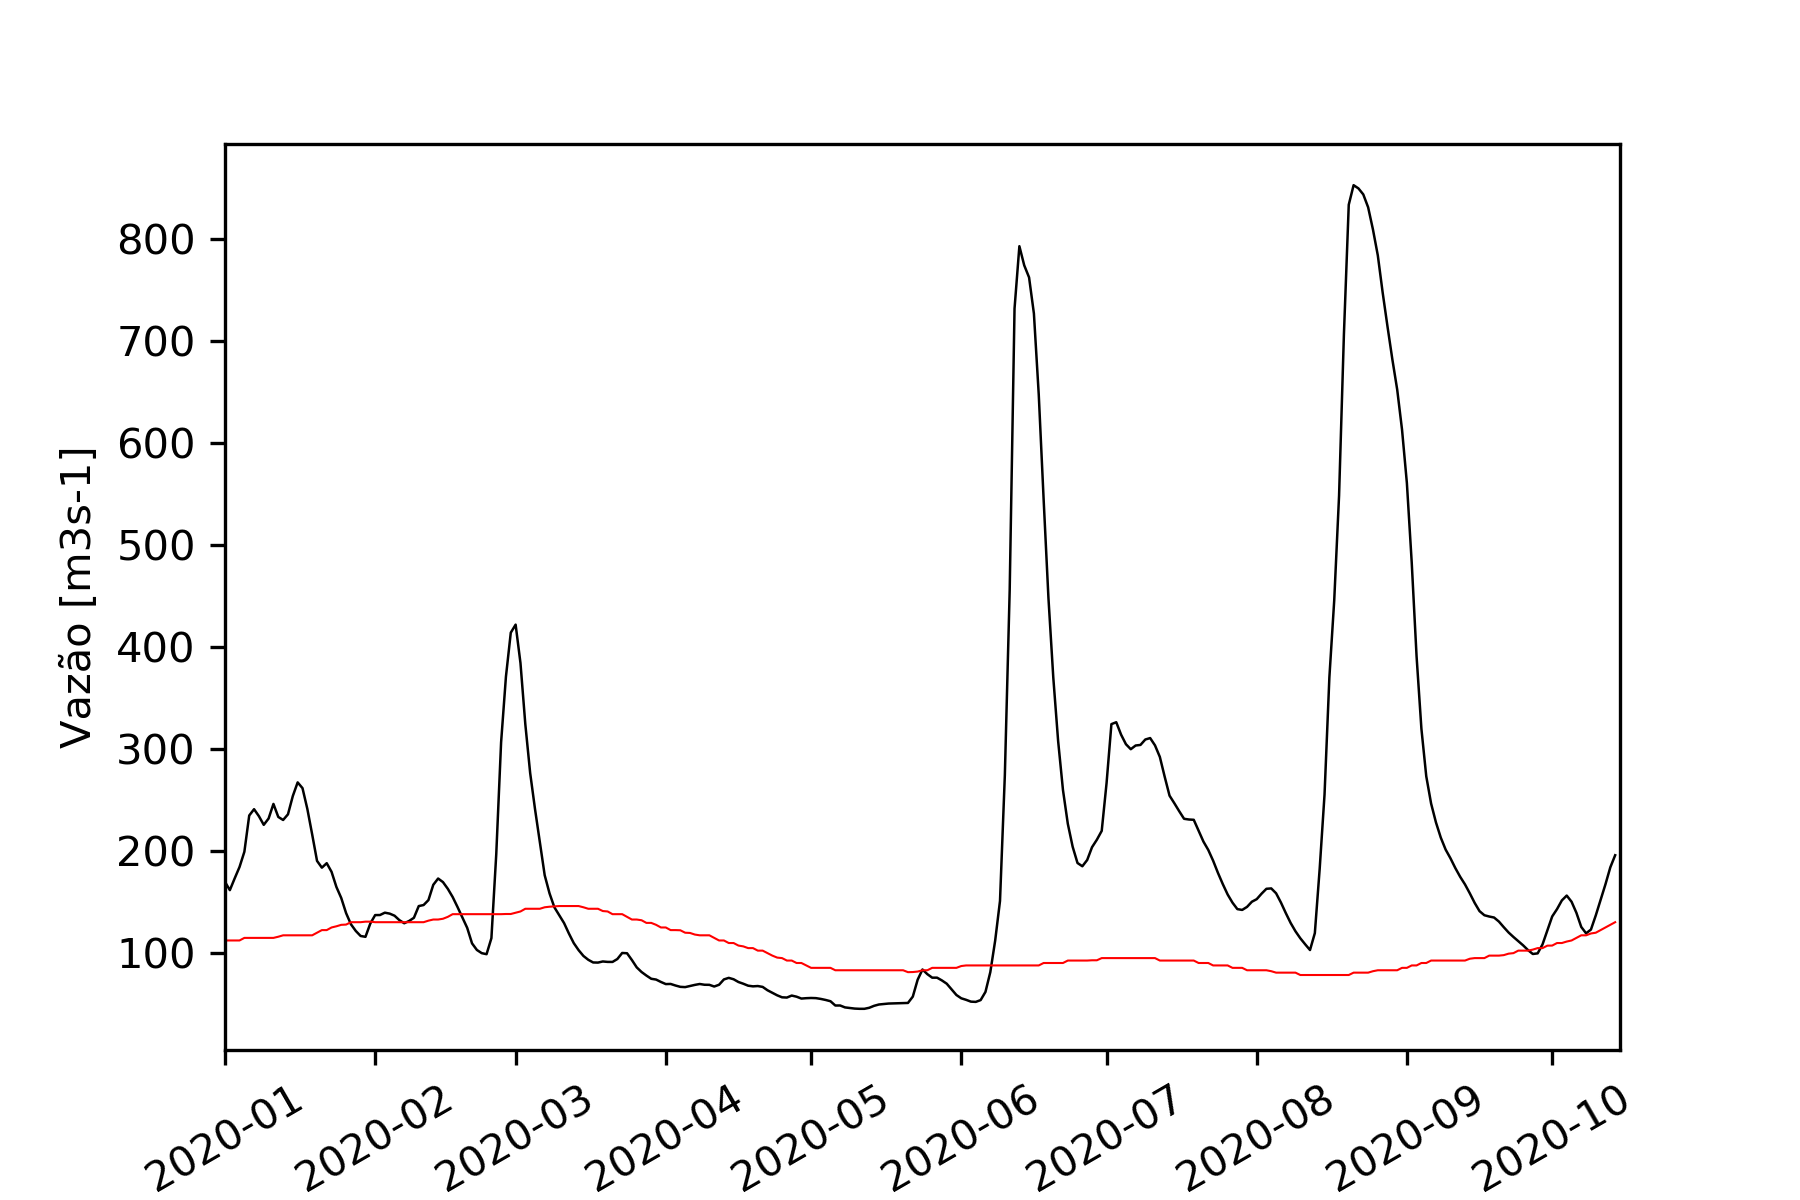
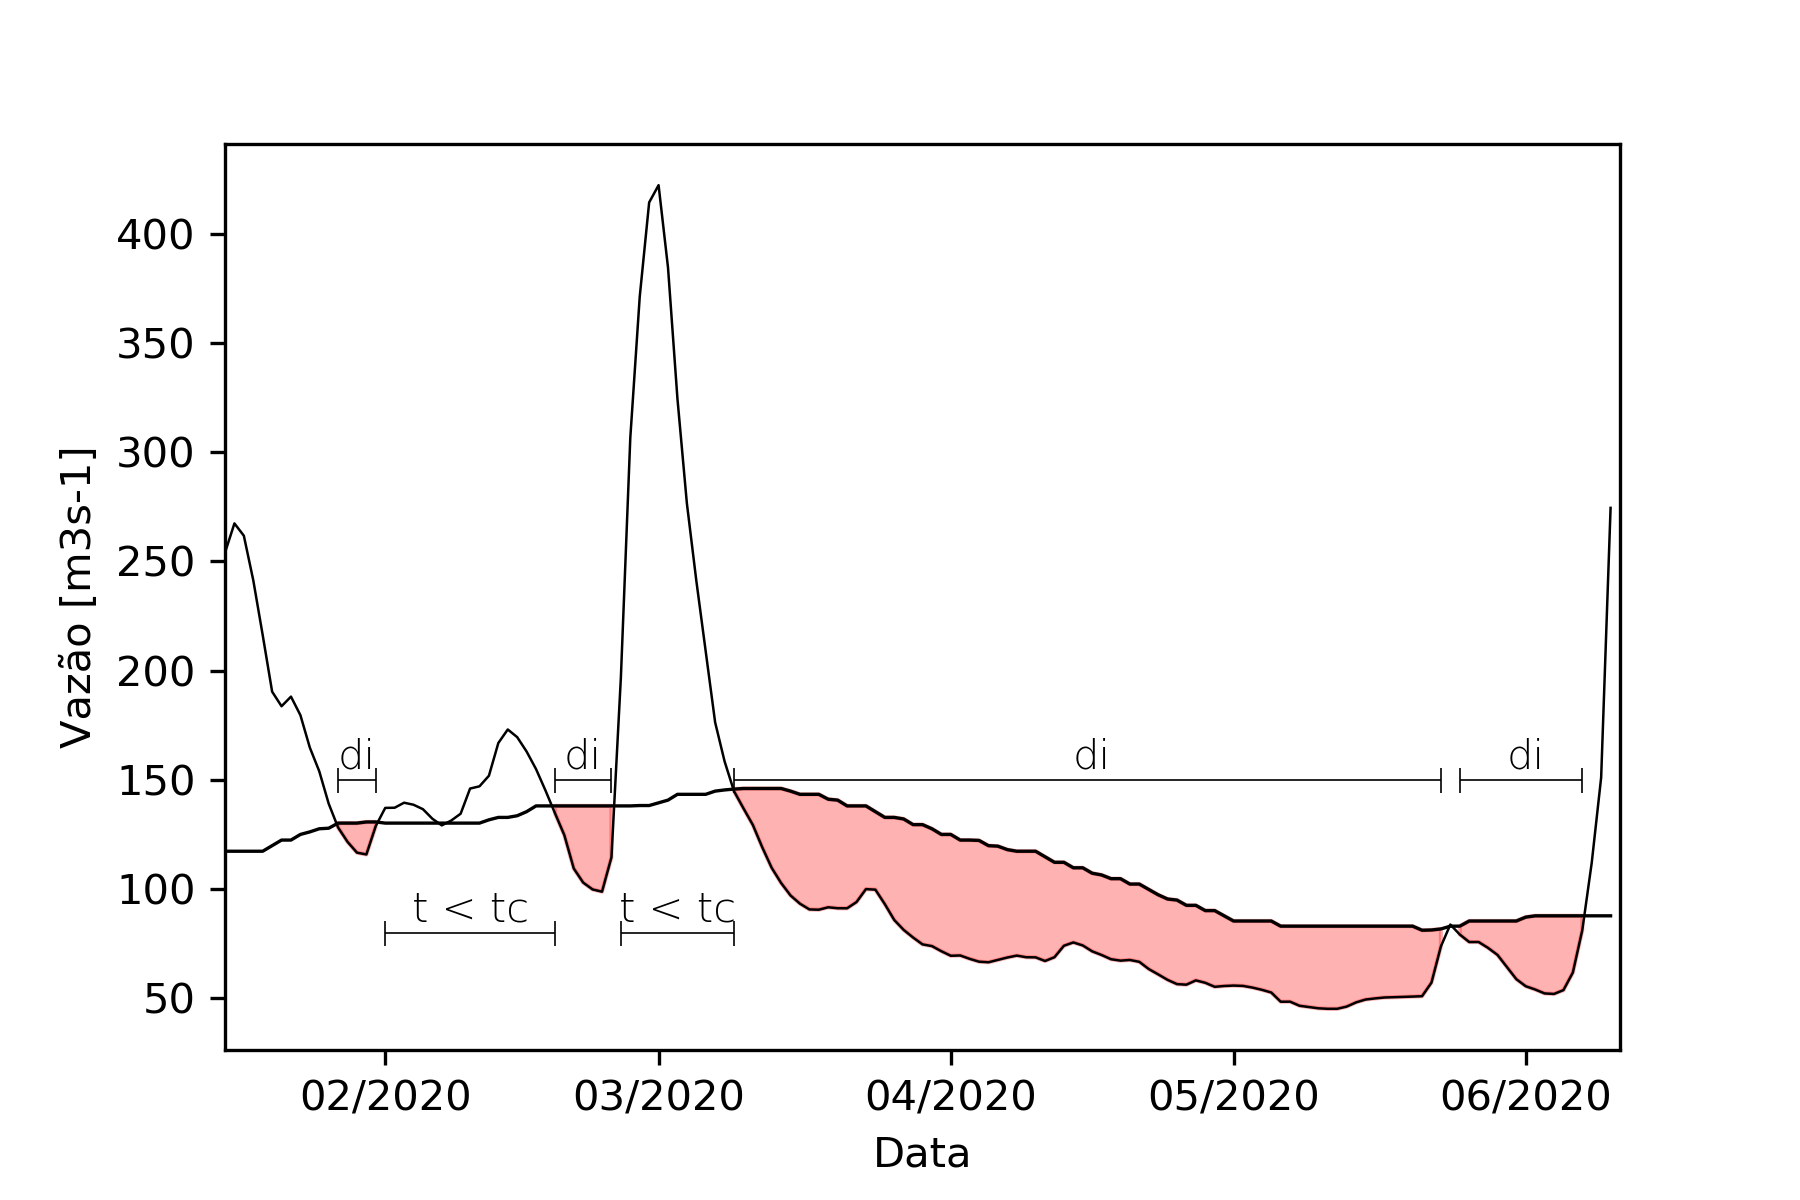
plot evento 2020

diff --git a/low-flow-index/programas/teste_plot.py b/low-flow-index/programas/teste_plot.py
@@ -8,8 +8,8 @@ import seaborn as sns
 import datetime as dt
 
 #DEFINICAO PERIODO ANALISE
-data_inicial = dt.datetime(2020, 1, 1,  0,  0) #YYYY, M, D, H, Min
-data_final = dt.datetime(2020, 10, 14,  23,  59)
+data_inicial = dt.datetime(2020, 1, 15,  0,  0) #YYYY, M, D, H, Min
+data_final = dt.datetime(2020, 6, 10,  23,  59)
 
 dir_plot = "/home/bruno/github/analise-seca/low-flow-index/dados-saida"
 os.chdir(dir_plot)
@@ -23,19 +23,43 @@ data_fim = data_final
 serie_observada = pd.read_csv(nome_bacia+'_serie.csv', index_col=0)
 serie_observada.index = pd.to_datetime(serie_observada.index)
 serie_observada = serie_observada.loc[str(data_ini) : str(data_fim)]
-serie_observada
+obs = serie_observada['q_m3s']
+q95 = serie_observada['q95']
 
 plt.figure()
 plt.plot(serie_observada['q_m3s'], label = "Observado", linewidth = 0.6, color = 'black')
-plt.plot(serie_observada['q95'], label = "Q95", linewidth = 0.5, color = 'red')
+plt.plot(serie_observada['q95'], label = "Q95", linewidth = 0.8, color = 'black')
+plt.hlines(y = 150, xmin = dt.datetime(2020,1,27), xmax=dt.datetime(2020,1,31), linewidth = 0.4)
+plt.text(y= 155, x = dt.datetime(2020,1,29), s = 'di', ha = 'center', weight = 'light')
+plt.hlines(y = 150, xmin = dt.datetime(2020,2,19), xmax=dt.datetime(2020,2,25), linewidth = 0.4)
+plt.text(y= 155, x = dt.datetime(2020,2,22), s = 'di', ha = 'center', weight = 'light')
+plt.hlines(y = 150, xmin = dt.datetime(2020,3,9), xmax=dt.datetime(2020,5,23), linewidth = 0.4)
+plt.text(y= 155, x = dt.datetime(2020,4,16), s = 'di', ha = 'center', weight = 'light')
+plt.hlines(y = 150, xmin = dt.datetime(2020,5,25), xmax=dt.datetime(2020,6,7), linewidth = 0.4)
+plt.text(y= 155, x = dt.datetime(2020,6,1), s = 'di', ha = 'center', weight = 'light')
+plt.scatter(y = [150, 150, 150, 150, 150, 150, 150, 150],
+            x = [dt.datetime(2020,1,27),dt.datetime(2020,1,31),
+                 dt.datetime(2020,2,19),dt.datetime(2020,2,25),
+                 dt.datetime(2020,3,9),dt.datetime(2020,5,23),
+                 dt.datetime(2020,5,25),dt.datetime(2020,6,7)],
+            marker = "|", linewidth = 0.4, color = 'black')
+plt.hlines(y = 80, xmin = dt.datetime(2020,2,1), xmax=dt.datetime(2020,2,19), linewidth = 0.4)
+plt.text(y= 85, x = dt.datetime(2020,2,10), s = 't < tc', ha = 'center', weight = 'light')
+plt.hlines(y = 80, xmin = dt.datetime(2020,2,26), xmax=dt.datetime(2020,3,9), linewidth = 0.4)
+plt.text(y= 85, x = dt.datetime(2020,3,3), s = 't < tc', ha = 'center', weight = 'light')
+plt.scatter(y = [80, 80, 80, 80],
+            x = [dt.datetime(2020,2,1),dt.datetime(2020,2,19),
+                 dt.datetime(2020,2,26),dt.datetime(2020,3,9)],
+            marker = "|", linewidth = 0.4, color = 'black')
 plt.xlabel('Data')
 plt.ylabel('Vazão [m3s-1]')
+plt.fill_between(serie_observada.index, obs, q95, where = (obs < q95), color = 'red', alpha = 0.3)
 # Format the date into months & days
-plt.gca().xaxis.set_major_formatter(mdates.DateFormatter('%Y-%m'))
+plt.gca().xaxis.set_major_formatter(mdates.DateFormatter('%m/%Y'))
 # Change the tick interval
 plt.gca().xaxis.set_major_locator(mdates.MonthLocator(interval=1))
 # Puts x-axis labels on an angle
-plt.gca().xaxis.set_tick_params(rotation = 30)
+plt.gca().xaxis.set_tick_params(rotation = 0)
 # Changes x-axis range
 plt.gca().set_xbound(data_ini, data_fim)
 plt.savefig(nome_bacia+'_plot.png', dpi = 300)
